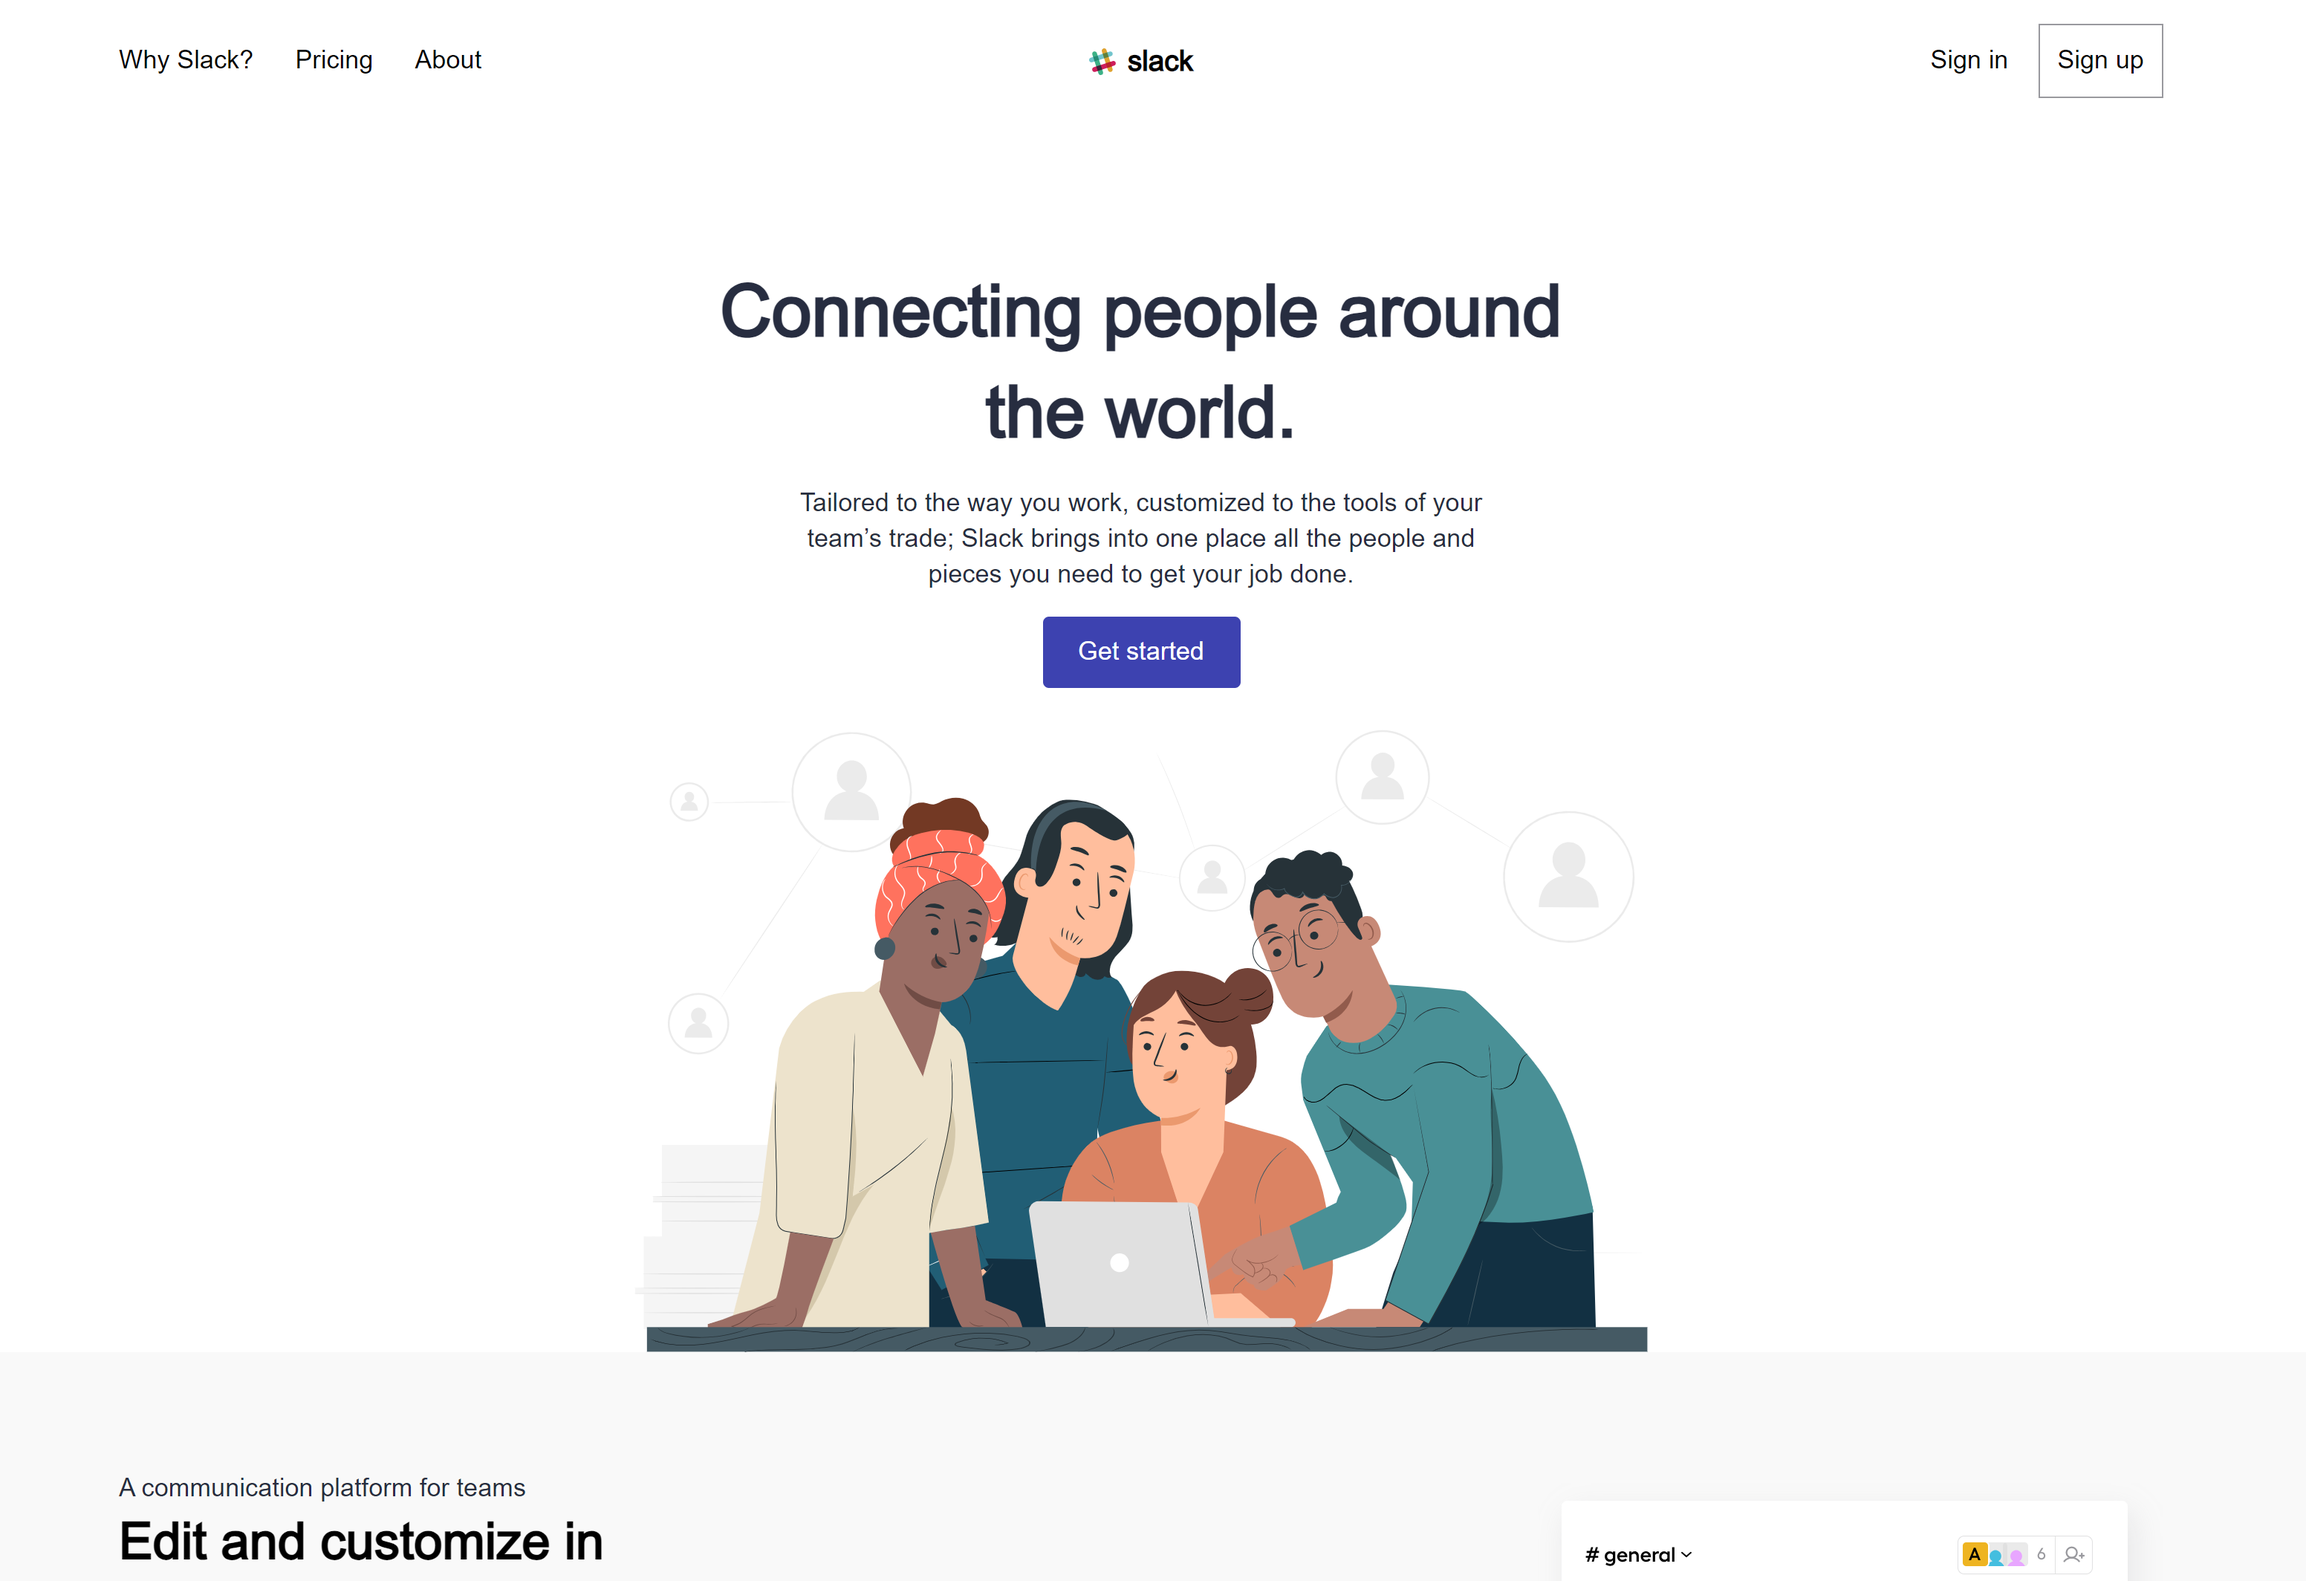
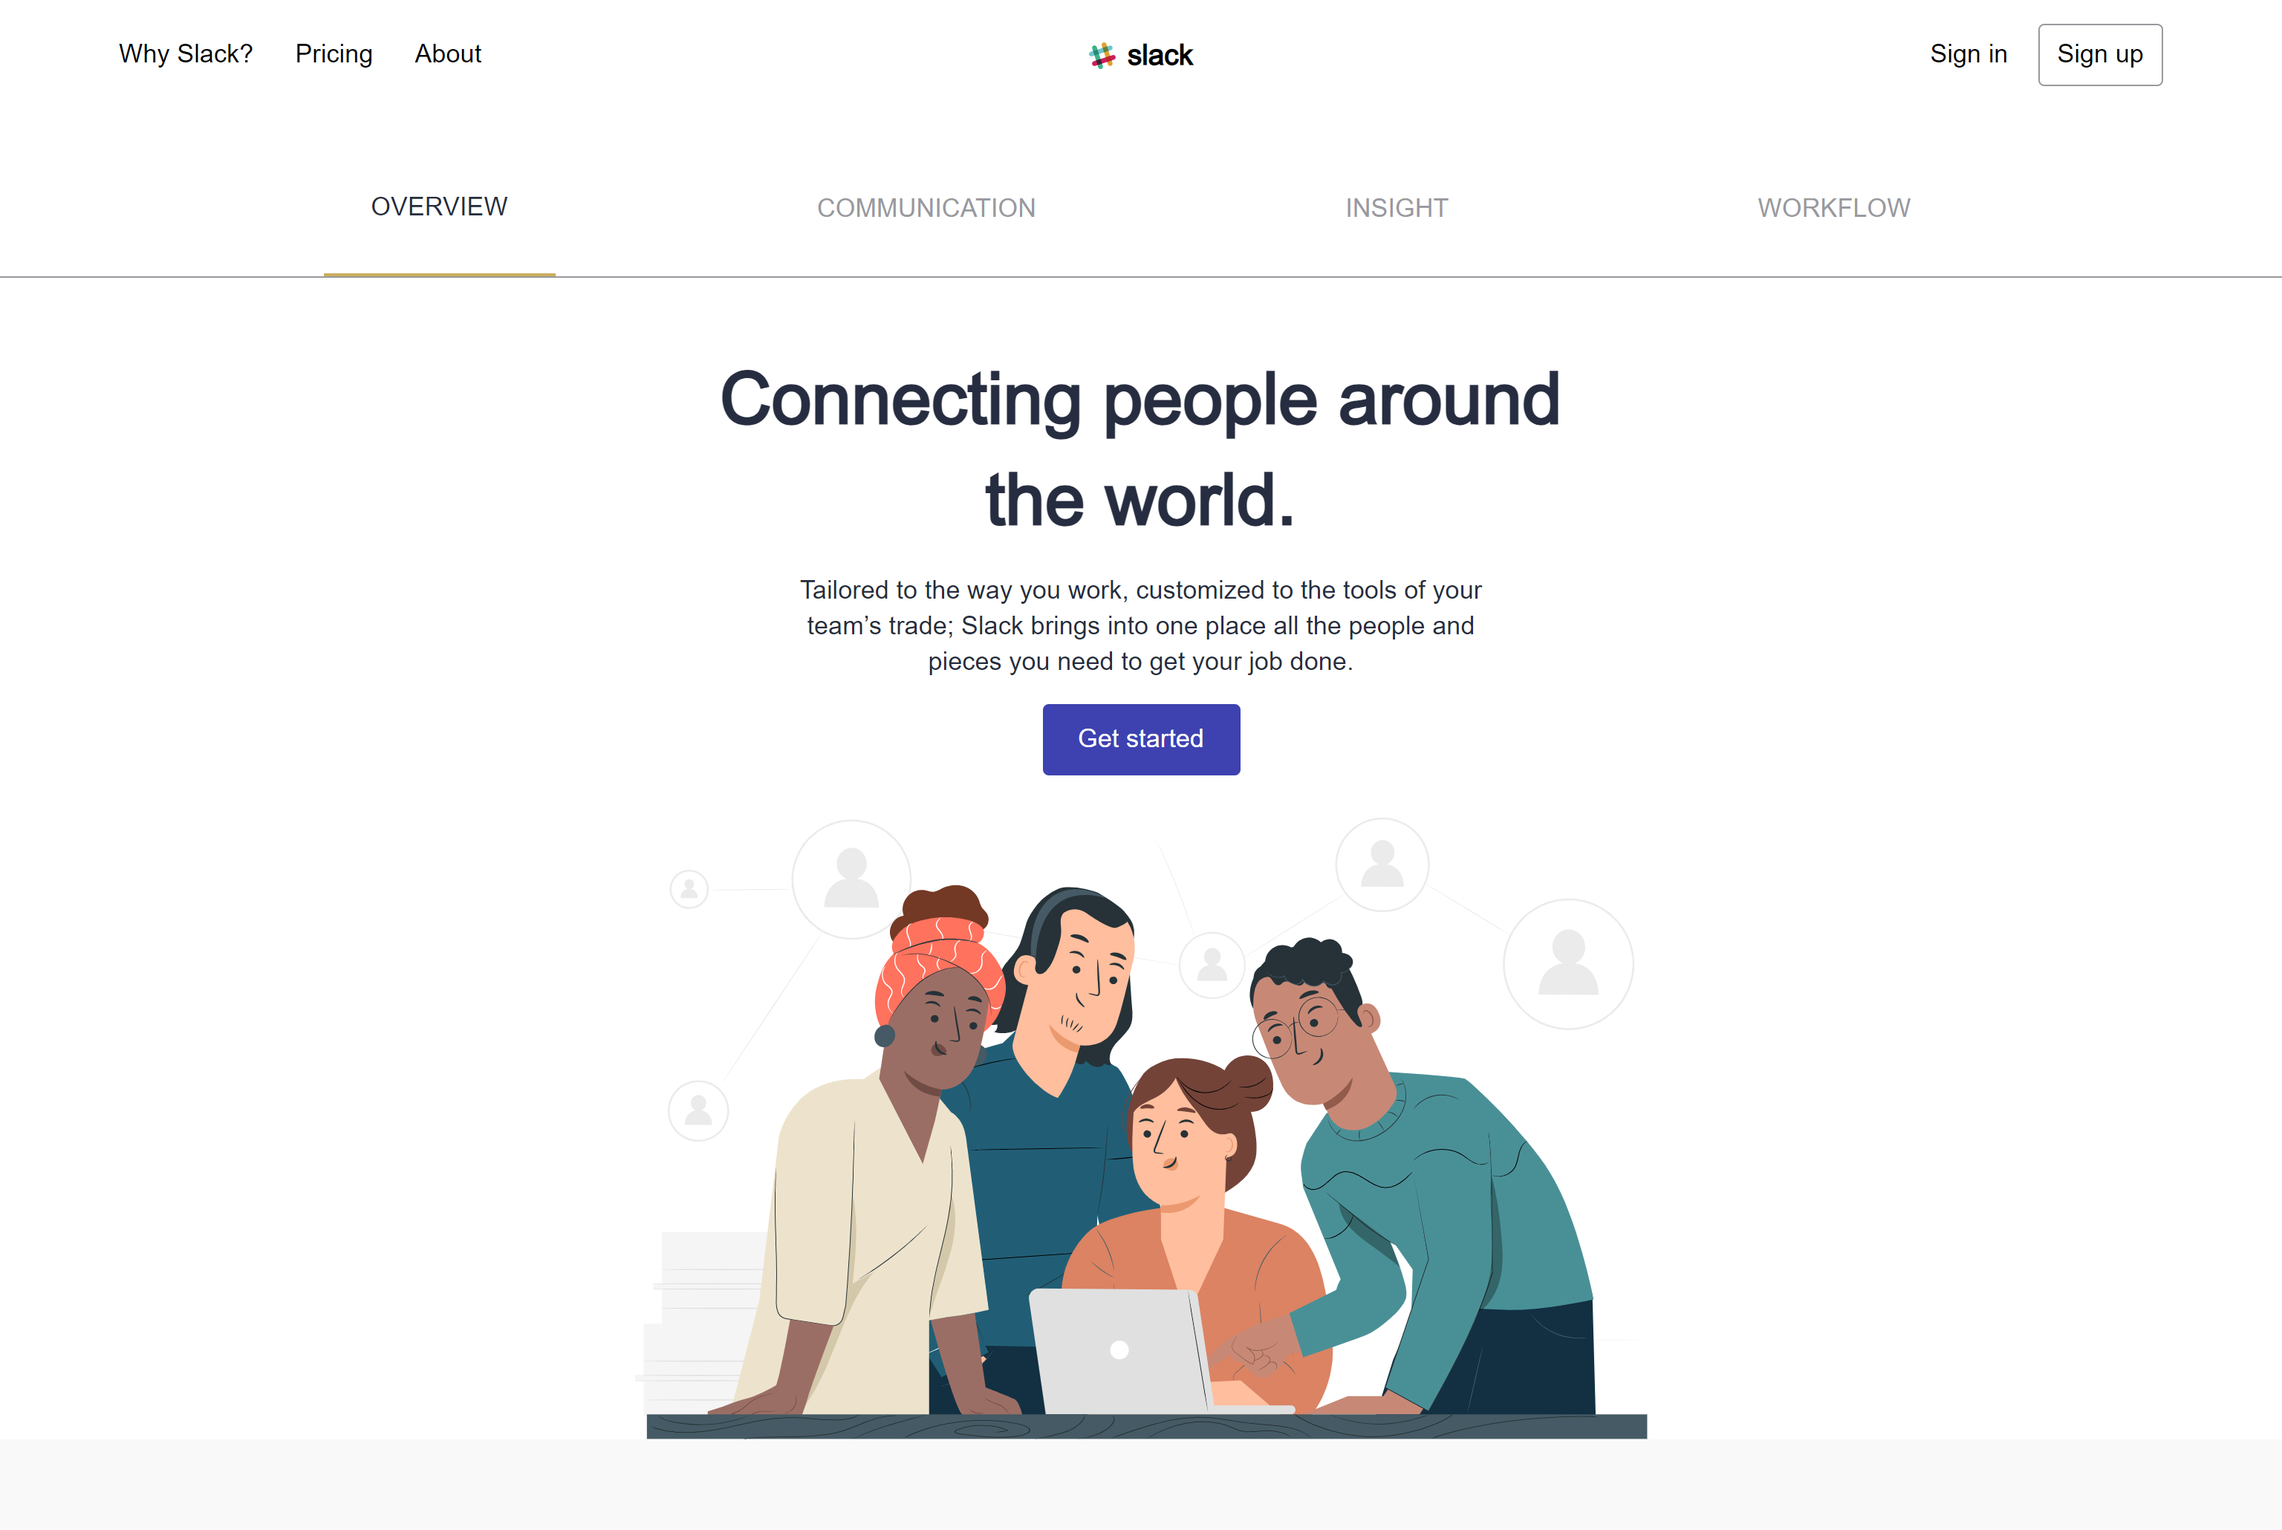
Homepage completed

diff --git a/src/components/Homepage/Header.tsx b/src/components/Homepage/Header.tsx
@@ -1,23 +1,77 @@
-import React from "react";
+"use client";
+
+import React, { useState } from "react";
 import Hero from "../../assets/hero.svg";
 import Image from "next/image";
 
 const Header = () => {
+  const [tabIndex, setTabIndex] = useState(1);
+  const nextTab = (index: number) => {
+    setTabIndex(index);
+  };
+
   return (
-    <div className="container md:pt-12 pt-8 w-full">
-      <div className="flex flex-col items-center justify-center text-center gap-4">
-        <p className="text-primary font-bold md:text-[45px] text-[30px] md:max-w-[600px] text-center">
-          Connecting people around the world.
-        </p>
-        <p className="text-primary md:max-w-[500px]">
-          Tailored to the way you work, customized to the tools of your team’s
-          trade; Slack brings into one place all the people and pieces you need
-          to get your job done.
-        </p>
-        <button className="py-3 px-6 bg-[#3D42B0] hover:bg-[#1F2492] rounded">
-          Get started
-        </button>
-        <Image src={Hero} alt="Hero image" className="pt-3" />
+    <div>
+      <div className="lg:flex hidden border-b border-[#99999E]">
+        <div className="flex flex-row items-center justify-center font-[480] text-secondary  uppercase w-full gap-36">
+          <a
+            href="#overview"
+            className={`${
+              tabIndex === 1 && "border-b-2 text-primary  border-[#C9AE5D]"
+            } p-8 pt-0`}
+            onClick={() => nextTab(1)}
+          >
+            {" "}
+            Overview
+          </a>
+          <a
+            href="#communication"
+            className={`${
+              tabIndex === 2 && "border-b-2 text-primary  border-[#C9AE5D] "
+            } p-8 pt-0`}
+            onClick={() => nextTab(2)}
+          >
+            {" "}
+            communication
+          </a>
+          <a
+            href="#insight"
+            className={`${
+              tabIndex === 3 && "border-b-2 text-primary  border-[#C9AE5D]"
+            } p-8 pt-0`}
+            onClick={() => nextTab(3)}
+          >
+            {" "}
+            insight
+          </a>
+          <a
+            href="#workflow"
+            className={`${
+              tabIndex === 4 && "border-b-2 text-primary  border-[#C9AE5D]"
+            } p-8 pt-0`}
+            onClick={() => nextTab(4)}
+          >
+            Workflow{" "}
+          </a>
+        </div>
+      </div>
+
+      <div></div>
+      <div className="container w-full md:pt-12 pt-8">
+        <div className="flex flex-col items-center justify-center text-center gap-4">
+          <p className="text-primary font-bold md:text-[45px] text-[30px] md:max-w-[600px] text-center">
+            Connecting people around the world.
+          </p>
+          <p className="text-primary md:max-w-[500px]">
+            Tailored to the way you work, customized to the tools of your team’s
+            trade; Slack brings into one place all the people and pieces you
+            need to get your job done.
+          </p>
+          <button className="py-3 px-6 bg-[#3D42B0] hover:bg-[#1F2492] rounded">
+            Get started
+          </button>
+          <Image src={Hero} alt="Hero image" className="pt-3" />
+        </div>
       </div>
     </div>
   );

diff --git a/src/components/Navbar.tsx b/src/components/Navbar.tsx
@@ -40,7 +40,9 @@ const Navbar = () => {
           </Link>
           <div className="flex flex-1 items-center justify-end gap-5">
             <button>Sign in</button>
-            <button className="border border-[#99999E] p-3">Sign up</button>
+            <button className="border border-[#99999E] py-2 px-3 hover:text-white hover:bg-[#1F2492] rounded ">
+              Sign up
+            </button>
           </div>
         </div>
 
@@ -78,7 +80,7 @@ const Navbar = () => {
                   <button>Sign in</button>
                 </li>
                 <li className="cursor-pointer">
-                  <button className="border border-[#99999E] p-3">
+                  <button className="border border-[#99999E] py-2 px-3 hover:text-white hover:bg-[#1F2492] rounded">
                     Sign up
                   </button>
                 </li>
